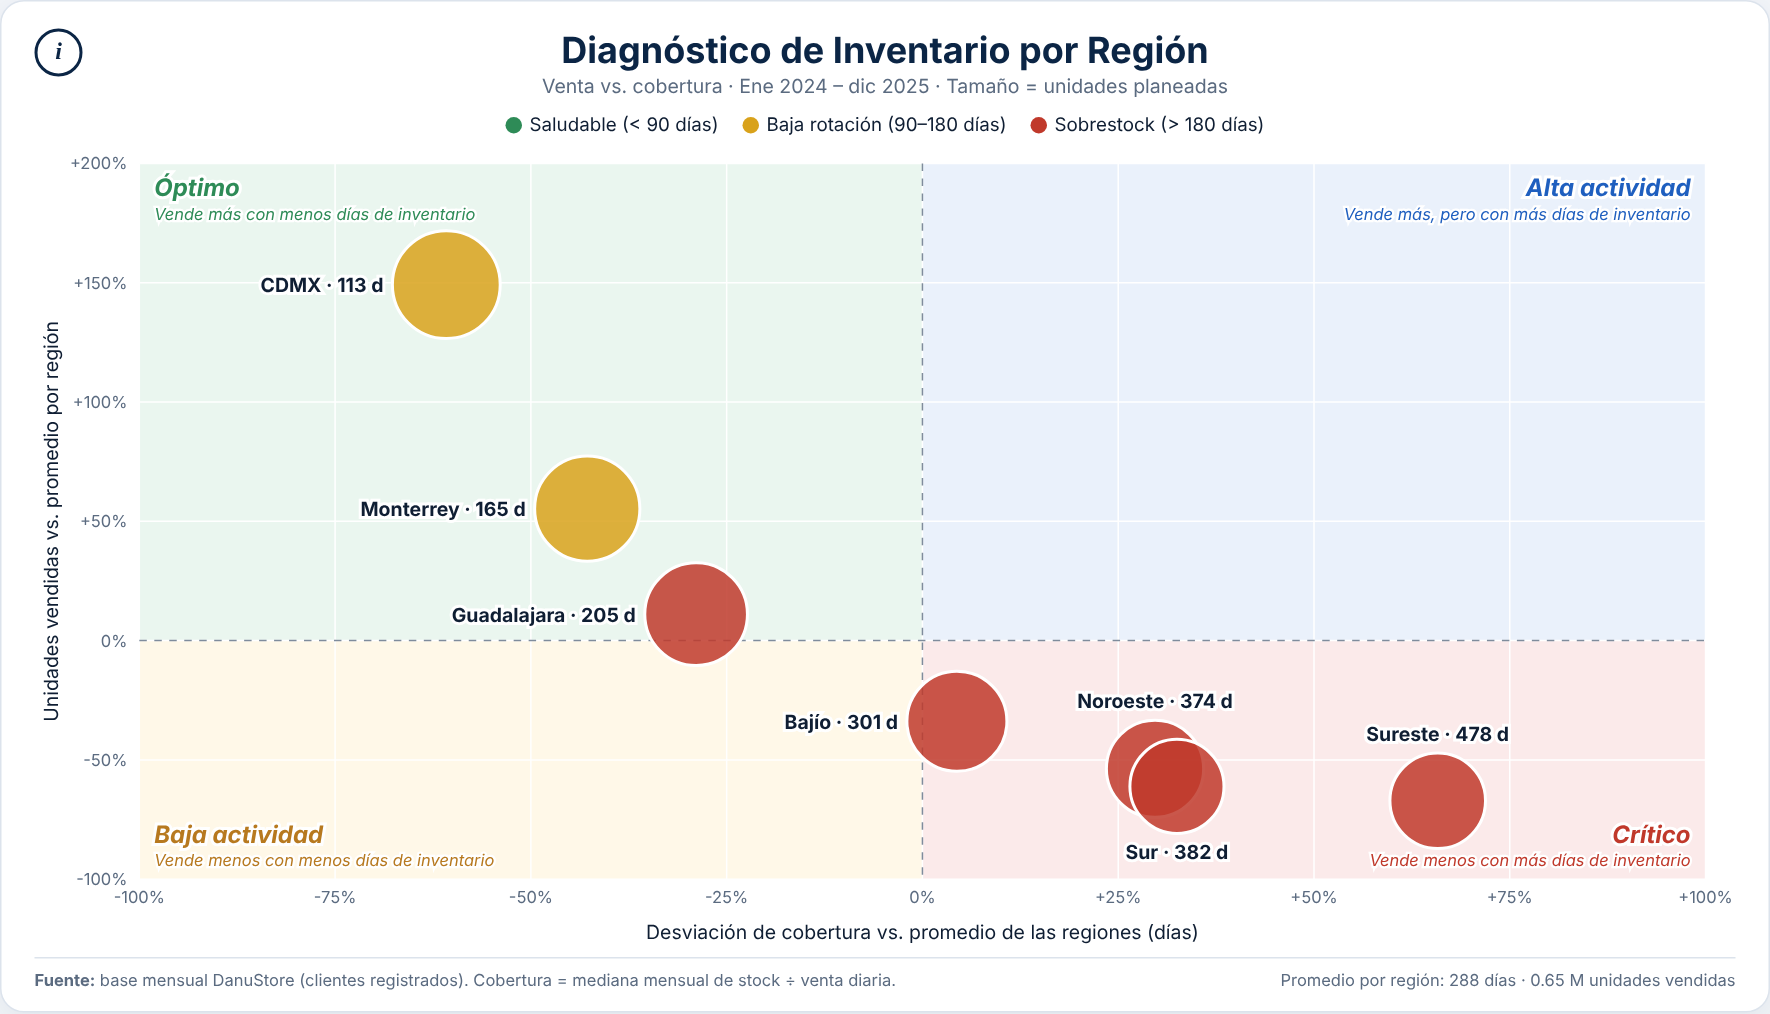
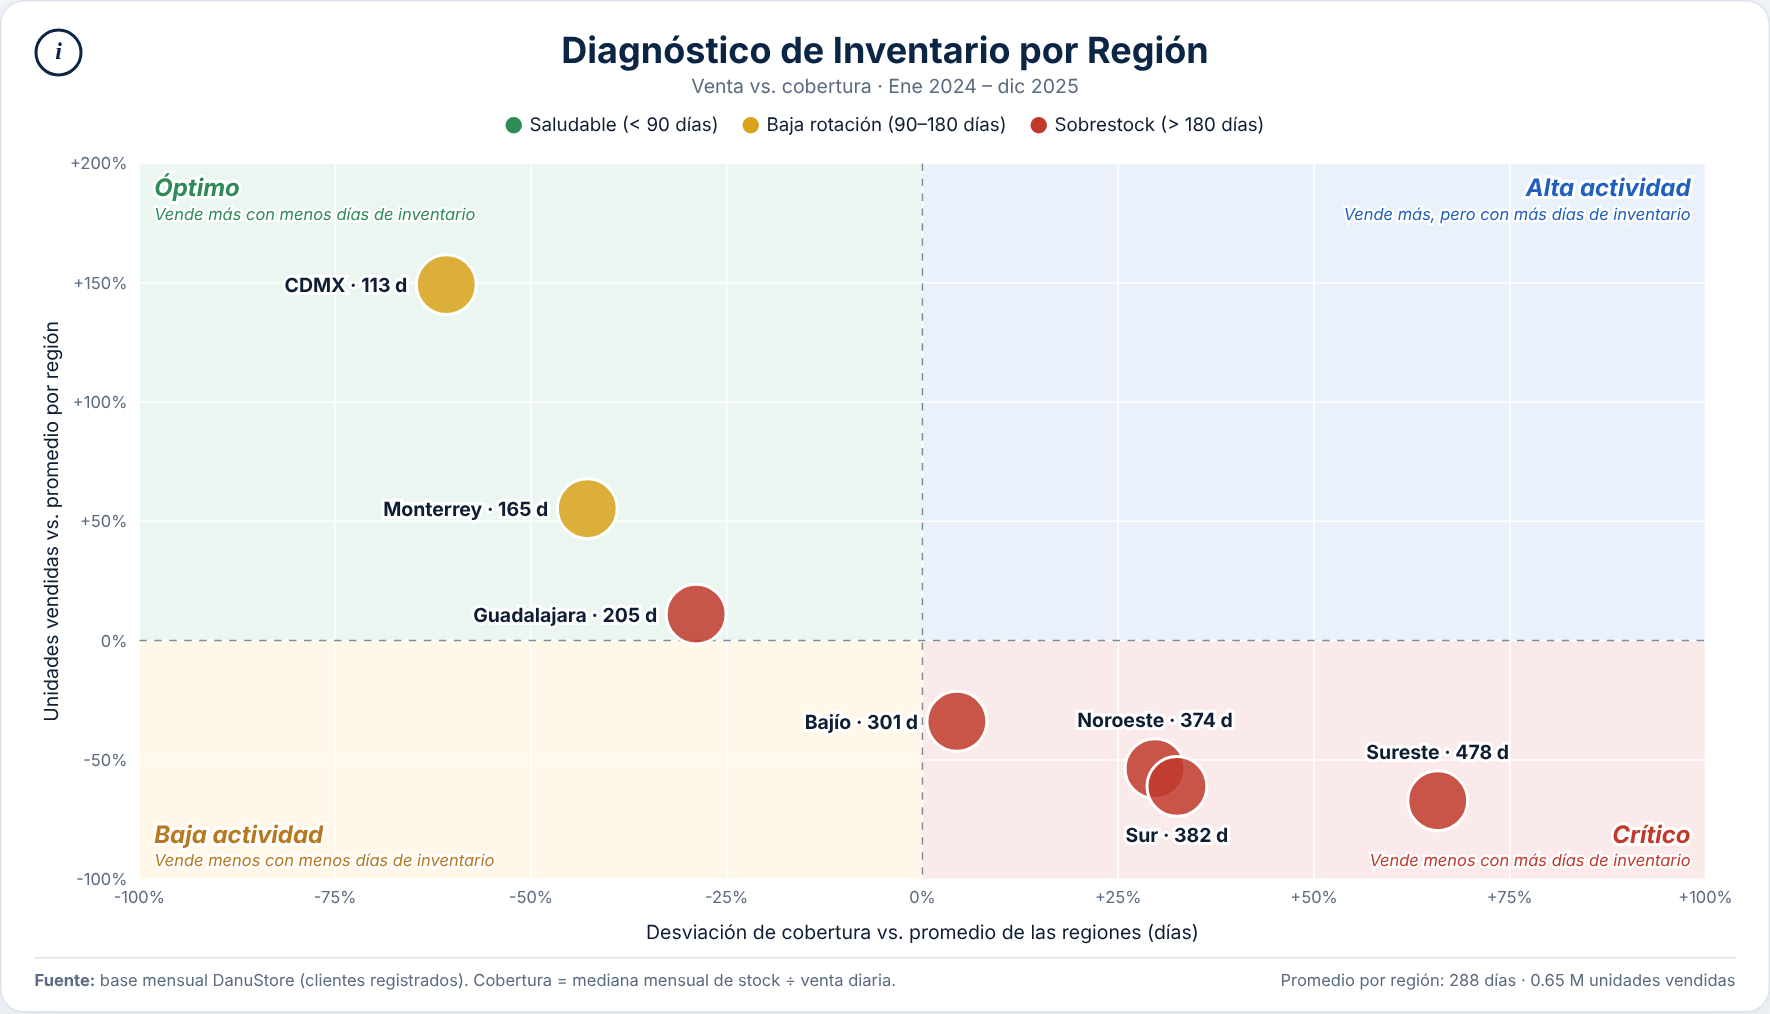
Mapa de cuadrantes por región: burbujas del mismo tamaño
Claude-Session: https://claude.ai/code/session_01Kk2nfkPg9B6EJa48cu7SnH

diff --git a/tableros/Mapa_Cuadrantes_Region.html b/tableros/Mapa_Cuadrantes_Region.html
@@ -25,8 +25,8 @@ svg text{font-family:'Segoe UI',Arial,sans-serif;pointer-events:none}
 </style></head><body>
 <div class="card">
   <div class="top">
-    <div class="info">i<span class="tip"><b>Cómo leerlo.</b> Cada burbuja es una región. Eje X: días de cobertura frente al promedio de las regiones (288 días). Eje Y: unidades vendidas frente al promedio por región. Tamaño: unidades que DanuStore planeó vender (units_expected). Color: semáforo de cobertura.</span></div>
-    <div><h1>Diagnóstico de Inventario por Región</h1><p class="sub">Venta vs. cobertura · Ene 2024 – dic 2025 · Tamaño = unidades planeadas</p></div>
+    <div class="info">i<span class="tip"><b>Cómo leerlo.</b> Cada burbuja es una región. Eje X: días de cobertura frente al promedio de las regiones (288 días). Eje Y: unidades vendidas frente al promedio por región. Color: semáforo de cobertura.</span></div>
+    <div><h1>Diagnóstico de Inventario por Región</h1><p class="sub">Venta vs. cobertura · Ene 2024 – dic 2025</p></div>
     <div></div>
   </div>
   <div class="legend">
@@ -44,7 +44,7 @@ const col = c => c < 90 ? '#2E8B57' : c <= 180 ? '#D9A21B' : '#C0392B';
 const fmtM = n => (n/1e6).toLocaleString('es-MX',{minimumFractionDigits:2,maximumFractionDigits:2})+' M';
 const W=1136,H=540,L=70,R=W-20,T=14,B=H-48, X0=-100,X1=100,Y0=-100,Y1=200;
 const sx=v=>L+(v-X0)/(X1-X0)*(R-L), sy=v=>B-(v-Y0)/(Y1-Y0)*(B-T);
-const maxE=Math.max(...D.rows.map(r=>r.exp)), rad=e=>14+Math.sqrt(e/maxE)*22;
+const rad=()=>20;
 let g='';
 const qx=sx(0),qy=sy(0);
 g+=`<rect x="${L}" y="${T}" width="${qx-L}" height="${qy-T}" fill="#EAF6EF"/>`;
@@ -54,7 +54,7 @@ g+=`<rect x="${qx}" y="${qy}" width="${R-qx}" height="${B-qy}" fill="#FBEAEA"/>`
 for(let v=-100;v<=100;v+=25){g+=`<line x1="${sx(v)}" x2="${sx(v)}" y1="${T}" y2="${B}" stroke="#fff"/><text x="${sx(v)}" y="${B+16}" font-size="11" text-anchor="middle" fill="#5B6B80">${v>0?'+':''}${v}%</text>`;}
 for(let v=-100;v<=200;v+=50){g+=`<line x1="${L}" x2="${R}" y1="${sy(v)}" y2="${sy(v)}" stroke="#fff"/><text x="${L-8}" y="${sy(v)+4}" font-size="11" text-anchor="end" fill="#5B6B80">${v>0?'+':''}${v}%</text>`;}
 g+=`<line x1="${qx}" x2="${qx}" y1="${T}" y2="${B}" stroke="#7F8C9C" stroke-dasharray="5 5"/><line x1="${L}" x2="${R}" y1="${qy}" y2="${qy}" stroke="#7F8C9C" stroke-dasharray="5 5"/>`;
-[...D.rows].sort((a,b)=>b.exp-a.exp).forEach(r=>{
+D.rows.forEach(r=>{
   g+=`<circle class="dot" cx="${sx(r.dx)}" cy="${sy(r.dy)}" r="${rad(r.exp)}" fill="${col(r.cob)}" fill-opacity=".85" stroke="#fff" stroke-width="2" data-r="${r.r}"/>`;
 });
 const POS = {Noroeste:'up', Sur:'down', Sureste:'up'};           // las demás van a la izquierda
